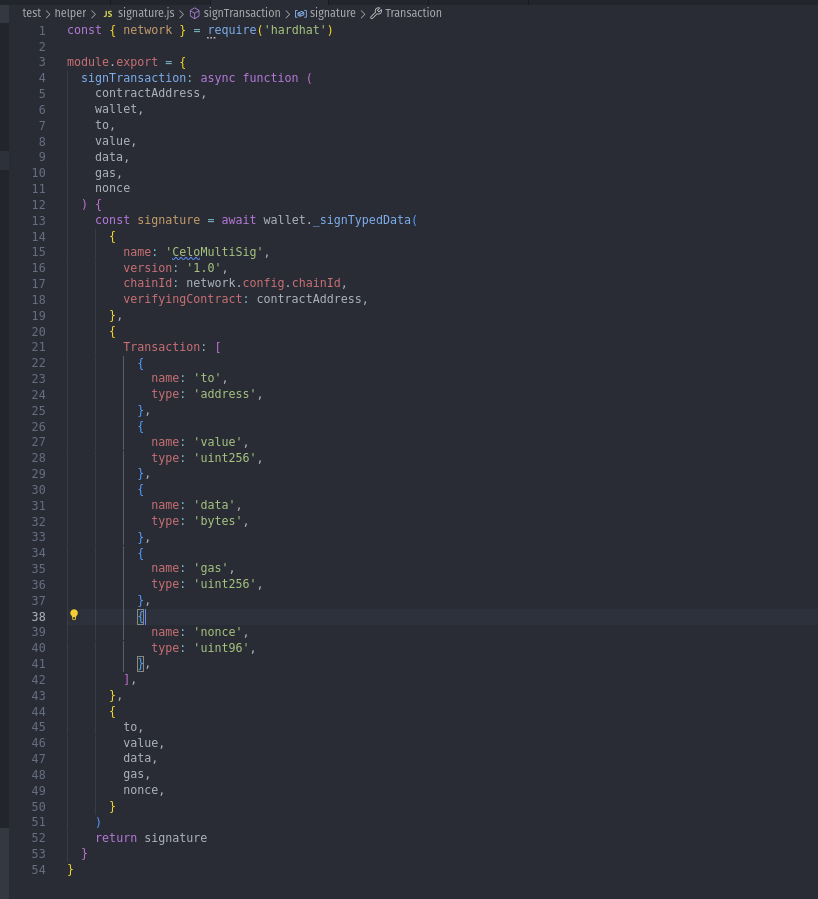
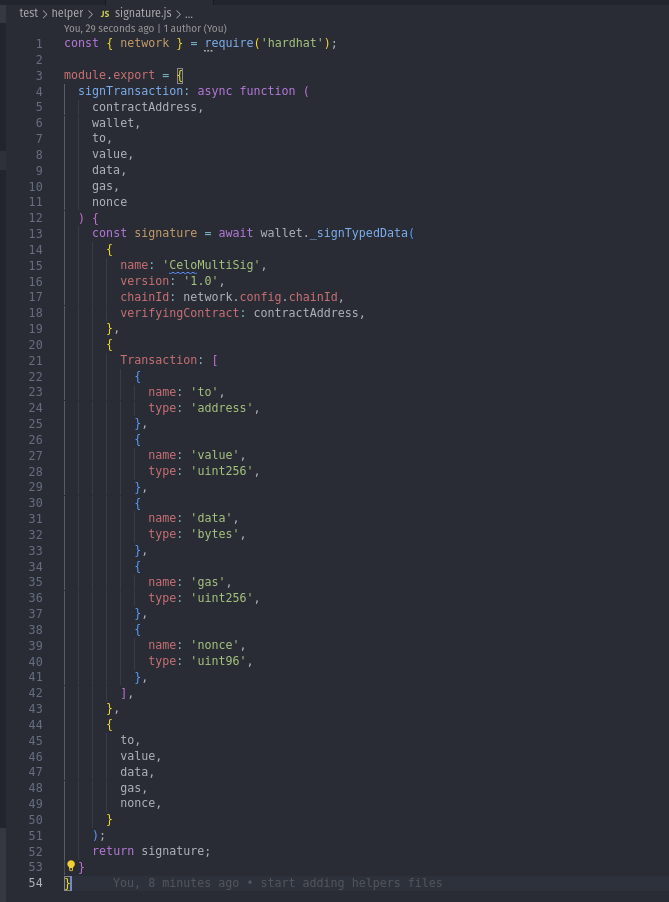
Setup our test helpers

diff --git a/blog/03-05-2023-how-to-write-a-multi-signatures-contract-on-celo-using-hardhat-part-2-2/how-to-write-a-multi-signatures-contract-on-celo-using-hardhat-part-2-2.md b/blog/03-05-2023-how-to-write-a-multi-signatures-contract-on-celo-using-hardhat-part-2-2/how-to-write-a-multi-signatures-contract-on-celo-using-hardhat-part-2-2.md
@@ -95,16 +95,83 @@ This should give you the following result:
 In the `utils.js` file, we will add the following code:
 
 ```js
+const { ethers, network, addressBook } = require('hardhat');
+
 module.export = {
+    setupProviderAndWallets: async function () {
+        const provider = ethers.provider;
+        let owner01;
+        let owner02;
+        let owner03;
+
+        let user01;
+        let user02;
+        let user03;
+
+        if (network.config.accounts && network.config.accounts.mnemonic) {
+            // If the network is configured with a mnemonic, use it to generate the wallets
+            owner01 = new ethers.Wallet(ethers.Wallet.fromMnemonic(network.config.accounts.mnemonic, `m/44'/60'/0'/0/0`).privateKey, provider);
+            owner02 = new ethers.Wallet(ethers.Wallet.fromMnemonic(network.config.accounts.mnemonic, `m/44'/60'/0'/0/1`).privateKey, provider);
+            owner03 = new ethers.Wallet(ethers.Wallet.fromMnemonic(network.config.accounts.mnemonic, `m/44'/60'/0'/0/2`).privateKey, provider);
+
+            user01 = new ethers.Wallet(ethers.Wallet.fromMnemonic(network.config.accounts.mnemonic, `m/44'/60'/0'/0/3`).privateKey, provider);
+            user02 = new ethers.Wallet(ethers.Wallet.fromMnemonic(network.config.accounts.mnemonic, `m/44'/60'/0'/0/4`).privateKey, provider);
+            user03 = new ethers.Wallet(ethers.Wallet.fromMnemonic(network.config.accounts.mnemonic, `m/44'/60'/0'/0/5`).privateKey, provider);
+        } else {
+            // If the network is not configured with a mnemonic, use the 3 first accounts as owners and the 3 next as users
+            owner01 = new ethers.Wallet(network.config.accounts[0], provider);
+            owner02 = new ethers.Wallet(network.config.accounts[1], provider);
+            owner03 = new ethers.Wallet(network.config.accounts[2], provider);
+
+            user01 = new ethers.Wallet(network.config.accounts[3], provider);
+            user02 = new ethers.Wallet(network.config.accounts[4], provider);
+            user03 = new ethers.Wallet(network.config.accounts[5], provider);
+        }
+        return [provider, owner01, owner02, owner03, user01, user02, user03]
+    },
+    deployContract: async function (owners, threshold) {
+        // Retrieve the contract factory
+        const CeloMultiSig = await ethers.getContractFactory('CeloMultiSig');
+        // Deploy the contract with the specified parameters for the constructor
+        const contract = await CeloMultiSig.deploy(owners, threshold);
+        // Wait for the contract to be deployed
+        await contract.deployed();
+        // Save the contract address in the address book
+        await addressBook.saveContract(
+            contractName,
+            contract.address,
+            network.name,
+            contract.deployTransaction.from,
+            network.config.chainId,
+            contract.deployTransaction.blockHash,
+            contract.deployTransaction.blockNumber,
+            undefined,
+            {
+              owners: ownersAddresses,
+              threshold,
+            }
+          );
+        // Return the contract
+        return contract;
+    }
 }
 ```
+
+This file should now look like this:
+
+![Utils helper](./images/build_utils_helper.png)
+
+In this file we added two functions:
+
+- `setupProviderAndWallets`: This function will setup the provider and the wallets we will use in our tests. It will also check if the network is configured with a mnemonic or not. If it is, it will use it to generate the wallets. If it is not, it will use the first 6 accounts in the network configuration.
+- `deployContract`: This function will deploy the contract with the specified parameters for the constructor. It will also save the contract address in the address book.
 
 ### Signature helper
 
 In the `signature.js` file, we will add the following code:
 
 ```js
-const { network } = require('hardhat')
+const { network } = require('hardhat');
 
 module.export = {
   signTransaction: async function (
@@ -154,8 +221,8 @@ module.export = {
         gas,
         nonce,
       }
-    )
-    return signature
+    );
+    return signature;
   }
 }
 ```
@@ -172,18 +239,251 @@ Like this:
 In the `test.js` file, we will add the following code:
 
 ```js
-module.export = {
+const { ethers, network } = require('hardhat');
+const { expect } = require('chai');
+
+const signature = require('./signatures');
+
+const ZERO = ethers.BigNumber.from(0);
+
+const sendRawTxn = async (input, sender, ethers, provider) => {
+    // Get the nonce
+    const txCount = await provider.getTransactionCount(sender.address)
+    // Prepare the transaction
+    const rawTx = {
+        chainId: network.config.chainId,
+        nonce: ethers.utils.hexlify(txCount),
+        to: input.to,
+        value: input.value || 0x00,
+        gasLimit: ethers.utils.hexlify(3000000),
+        gasPrice: ethers.utils.hexlify(25000000000),
+        data: input.data,
+    }
+    // Sign the transaction
+    const rawTransactionHex = await sender.signTransaction(rawTx)
+    // Send the transaction
+    const { hash } = await provider.sendTransaction(rawTransactionHex)
+    // Wait for the transaction to be mined
+    return await provider.waitForTransaction(hash)
+  }
+  
+const checkRawTxnResult = async (input, sender, error) => {
+    let result
+    // Check if the transaction should fail or not
+    if (error)
+        if (network.name === 'hardhat' || network.name === 'localhost')
+            await expect(sendRawTxn(input, sender, ethers, ethers.provider)).to.be.revertedWith(error)
+        else expect.fail('AssertionError: ' + error)
+    else {
+        result = await sendRawTxn(input, sender, ethers, ethers.provider)
+        expect(result.status).to.equal(1)
+    }
+    return result
+}
+
+const getEventFromReceipt = async (contract, receipt, eventName) => {
+    // Parse the logs
+    const log = receipt.logs.map((log) => {
+        try {
+            return contract.interface.parseLog(log)
+        } catch (e) {
+            console.log('e', e)
+            return
+        }
+    })
+    return log
 }
 ```
+
+These functions are used to send raw transactions and check the result of the transaction. It also allows us to get the event from the receipt.
+
+It should now look like this:
+
+![Test helper](./images/build_test_helper.png)
+
+Now after the last line you added, add the following code:
+
+```js
+const prepareSignatures = async (contract, owners, to, value, data, gas = 30000) => {
+    // Query the next nonce
+    const nonce = await contract.nonce()
+    let signatures = '0x'
+    for (var i = 0; i < owners.length; i++) {
+        // For each owners, sign the transaction
+        const sig = await signature.signMultiSigTxn(contract.address, owners[i], to, value, data, gas, nonce)
+        // Concatenate the signatures
+        signatures += sig.substring(2)
+    }
+    // Return signatures of all owners
+    return signatures
+}
+```
+
+This function will prepare the signatures of all the owners of the contract. By using each of the wallets we will pass to the function as a array of owners and sign the transaction with each of them, then concatenate the signatures and return them.
+
+It should now look like this:
+
+![Prepare signatures](./images/build_test_helper_part2.png)
+
+We still have the main helper function to add, that will be used to test the execution of the transaction. Add the following code:
+
+```js
+const execTransaction = async (contract, submitter, owners, to, value, data, gas = 30000, errorMsg, extraEvents, signatures) => {
+    // Prepare signatures if not provided
+    if (!signatures) signatures = await prepareSignatures(contract, owners, to, value, data, gas)
+    // Prepare transaction
+    const input = await contract.connect(submitter).populateTransaction.execTransaction(to, value, data, gas, signatures)
+  
+    // Send the transaction and check the result
+    const receipt = await checkRawTxnResult(input, submitter, errorMsg)
+    if (!errorMsg) {
+        // Check the event emitted (if transaction should succeed)
+        const event = await getEventFromReceipt(contract, receipt, 'TransactionExecuted')
+        for (var i = 0; i < event.length; i++) {
+            if (event[i] && event[i].name === 'TransactionExecuted') {
+                // If the event is found, check the parameters
+                expect(event[i].args.sender).to.be.equal(submitter.address)
+                expect(event[i].args.to).to.be.equal(to)
+                expect(event[i].args.value).to.be.equal(value)
+                expect(event[i].args.data).to.be.equal(data)
+                expect(event[i].args.txnGas).to.be.equal(gas)
+                return receipt
+            } else {
+                // If the event is not found, check if the transaction failed
+                if (
+                    extraEvents &&
+                    extraEvents.find((extraEvent) => extraEvent === 'TransactionFailed') &&
+                    event[i] &&
+                    event[i].name === 'TransactionFailed'
+                ) {
+                    // If the transaction failed, check the parameters and if we expect a failure
+                    expect(event[i].args.sender).to.be.equal(submitter.address)
+                    expect(event[i].args.to).to.be.equal(to)
+                    expect(event[i].args.value).to.be.equal(value)
+                    expect(event[i].args.data).to.be.equal(data)
+                    expect(event[i].args.txnGas).to.be.equal(gas)
+                    return receipt
+                } else {
+                    // If the transaction failed but we don't expect it, throw an error
+                    expect.fail('TransactionExecuted event not found')
+                }
+            }
+        }
+        // If the event is not found, throw an error
+        if (event.length == 0) expect.fail('TransactionExecuted event not found')
+        // If we expect an extra event, check if it is emitted
+        if (extraEvents && extraEvents.length > 0) {
+            for (let i = 1; i < extraEvents.length; i++) {
+                const eventsFound = await getEventFromReceipt(contract, receipt, event)
+                for (var ii = 0; i < eventsFound.length; ii++) {
+                    if (eventsFound[ii]) {
+                        expect(submitter.address).to.be.equal(eventsFound[ii].sender)
+                        return receipt
+                    }
+                }
+            }
+        }
+    }
+}
+```
+
+This function will prepare the transaction, send it, and check the result. It will also check the event emitted by the transaction. This helper function is flexible and can be used to test the execution of a transaction, the failure of a transaction, or the execution of a transaction with extra event.
+
+It should now look like this:
+
+![Exec transaction](./images/build_test_helper_part3.png)
+
+Last function to add but not the least, we will add the function that will be used to test the addOwner, removeOwner, changeThreshold and replaceOwner functions. Add the following code:
+
+```js
+const addOwner = async (contract, submitter, owners, ownerToAdd, gas = 30000, errorMsg, extraEvents) => {
+    const data = contract.interface.encodeFunctionData('addOwner(address)', [ownerToAdd])
+
+    await execTransaction(contract, submitter, owners, contract.address, ZERO, data, gas, errorMsg, extraEvents)
+
+    if (!errorMsg) expect(await contract.isOwner(ownerToAdd)).to.be.true
+}
+  
+const removeOwner = async (contract, submitter, owners, ownerToRemove, gas = 30000, errorMsg, extraEvents) => {
+    const data = contract.interface.encodeFunctionData('removeOwner(address)', [ownerToRemove])
+
+    await execTransaction(contract, submitter, owners, contract.address, ZERO, data, gas, undefined, extraEvents)
+
+    if (!errorMsg) expect(await contract.isOwner(ownerToRemove)).to.be.false
+    else expect(await contract.isOwner(ownerToRemove)).to.be.true
+}
+  
+const changeThreshold = async (contract, submitter, owners, newThreshold, gas = 30000, errorMsg, extraEvents) => {
+    const data = contract.interface.encodeFunctionData('changeThreshold(uint16)', [newThreshold])
+
+    await execTransaction(contract, submitter, owners, contract.address, ZERO, data, gas, errorMsg, extraEvents)
+
+    if (!errorMsg) expect(await contract.threshold()).to.be.equal(newThreshold)
+}
+  
+const replaceOwner = async (contract, submitter, owners, ownerToAdd, ownerToRemove, gas = 30000, errorMsg, extraEvents) => {
+    const data = contract.interface.encodeFunctionData('replaceOwner(address,address)', [ownerToRemove, ownerToAdd])
+
+    await execTransaction(contract, submitter, owners, contract.address, ZERO, data, gas, errorMsg, extraEvents)
+
+    if (!errorMsg) {
+        expect(await contract.isOwner(ownerToAdd)).to.be.true
+        expect(await contract.isOwner(ownerToRemove)).to.be.false
+    }
+}
+```
+
+These four functions make use of the `execTransaction` function to test the execution of the `addOwner`, `removeOwner`, `changeThreshold` and `replaceOwner` functions. They will also check if the owner was added, removed, or replaced correctly or if the threshold was changed correctly.
+
+Since our main **execTransaction** function take a data as argument, it mean we need to encode our function call before sending it. We can do that using the `encodeFunctionData` function from the contract interface. This function will encode the function name and the arguments into a data string that can be used to call the function.
+
+It should now look like this:
+
+![Add housekeeping helper functions](./images/build_test_helper_part4.png)
+
+And lastly, we need to export all the helper functions. Add the following code at the end of the file:
+
+```js
+module.export = {
+    checkRawTxnResult,
+    prepareSignatures,
+    execTransaction,
+    addOwner,
+    removeOwner,
+    changeThreshold,
+    replaceOwner,
+}
+```
+
+This way we can import all the helper functions in our test file.
+
+It should now look like this:
+
+![Export all the test helpers](./images/build_test_helper_part5.png)
 
 ### Exporting all the helpers
 
 In the `index.js` file, we will add the following code:
 
 ```js
+const errors = require('./errors');
+const test = require('./test');
+const signature = require('./signatures');
+const utils = require('./utils');
+
 module.export = {
-}
+    errors,
+    test,
+    signature,
+    ...utils,
+};
 ```
+
+This way we can import all the helper functions in our test file by importing the `index.js` file.
+
+It should now look like this:
+
+![Export all the test helpers](./images/create_index_helper_files.png)
 
 ## Write our first test
 
